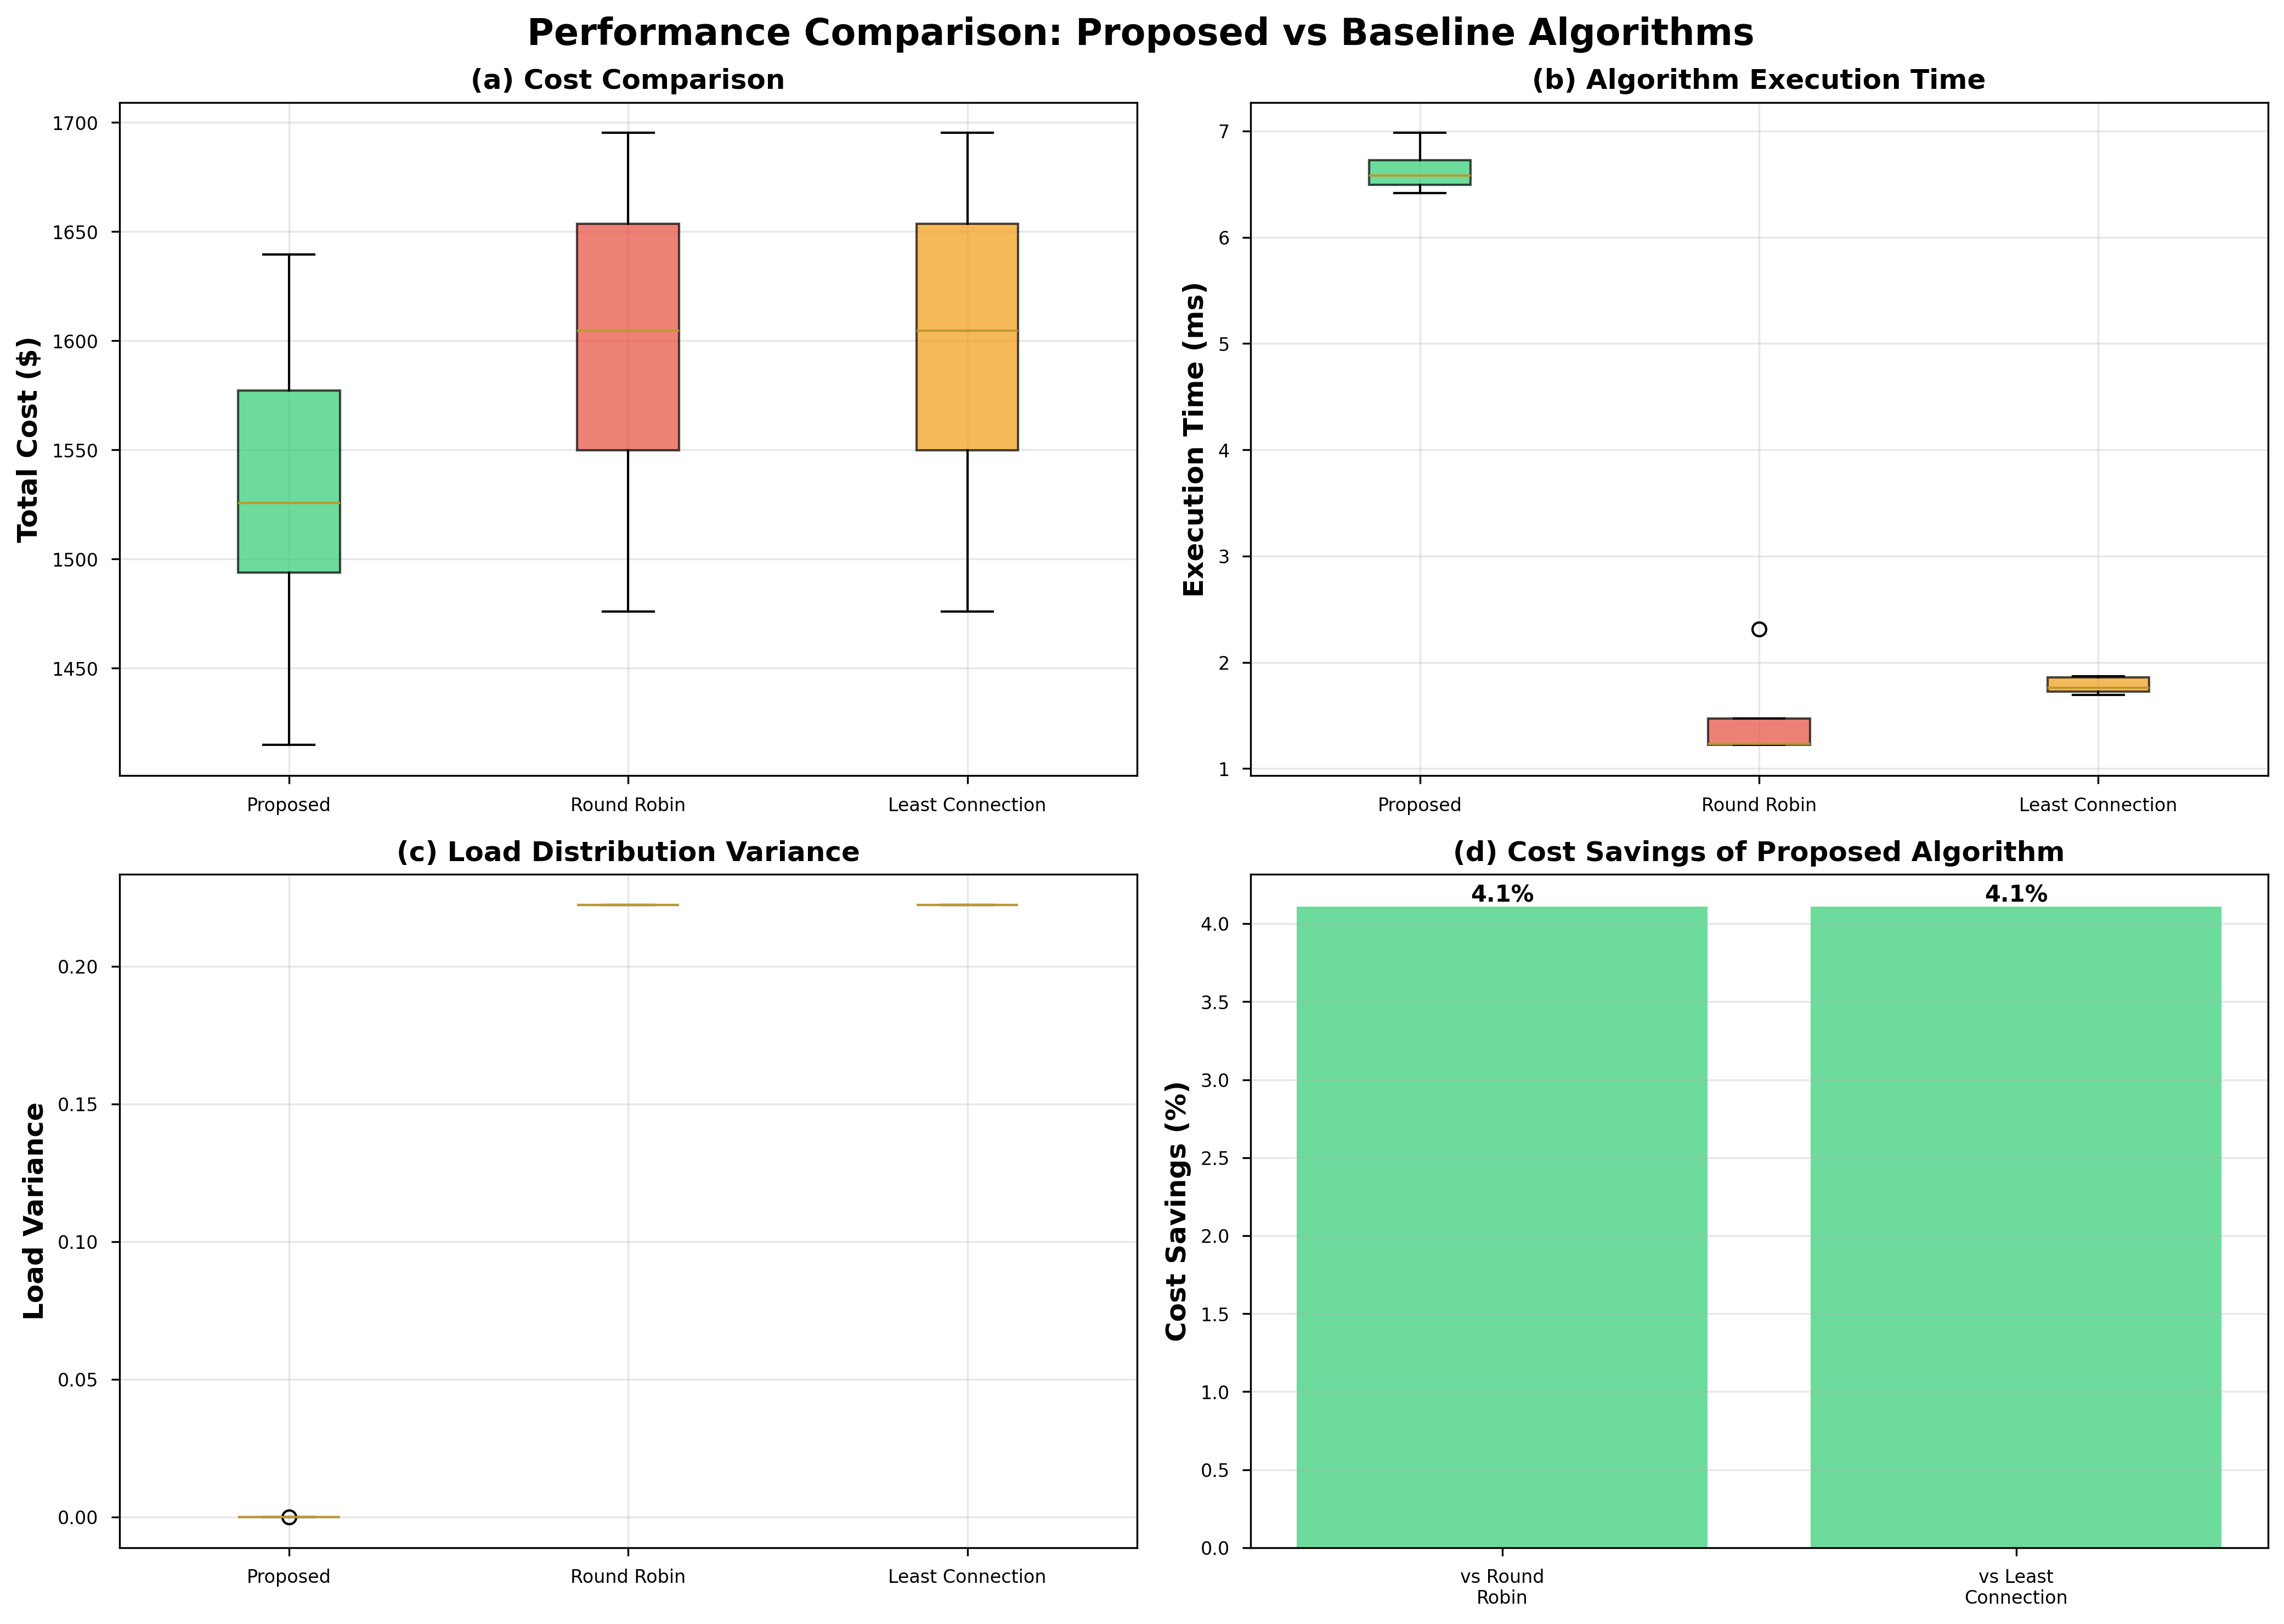
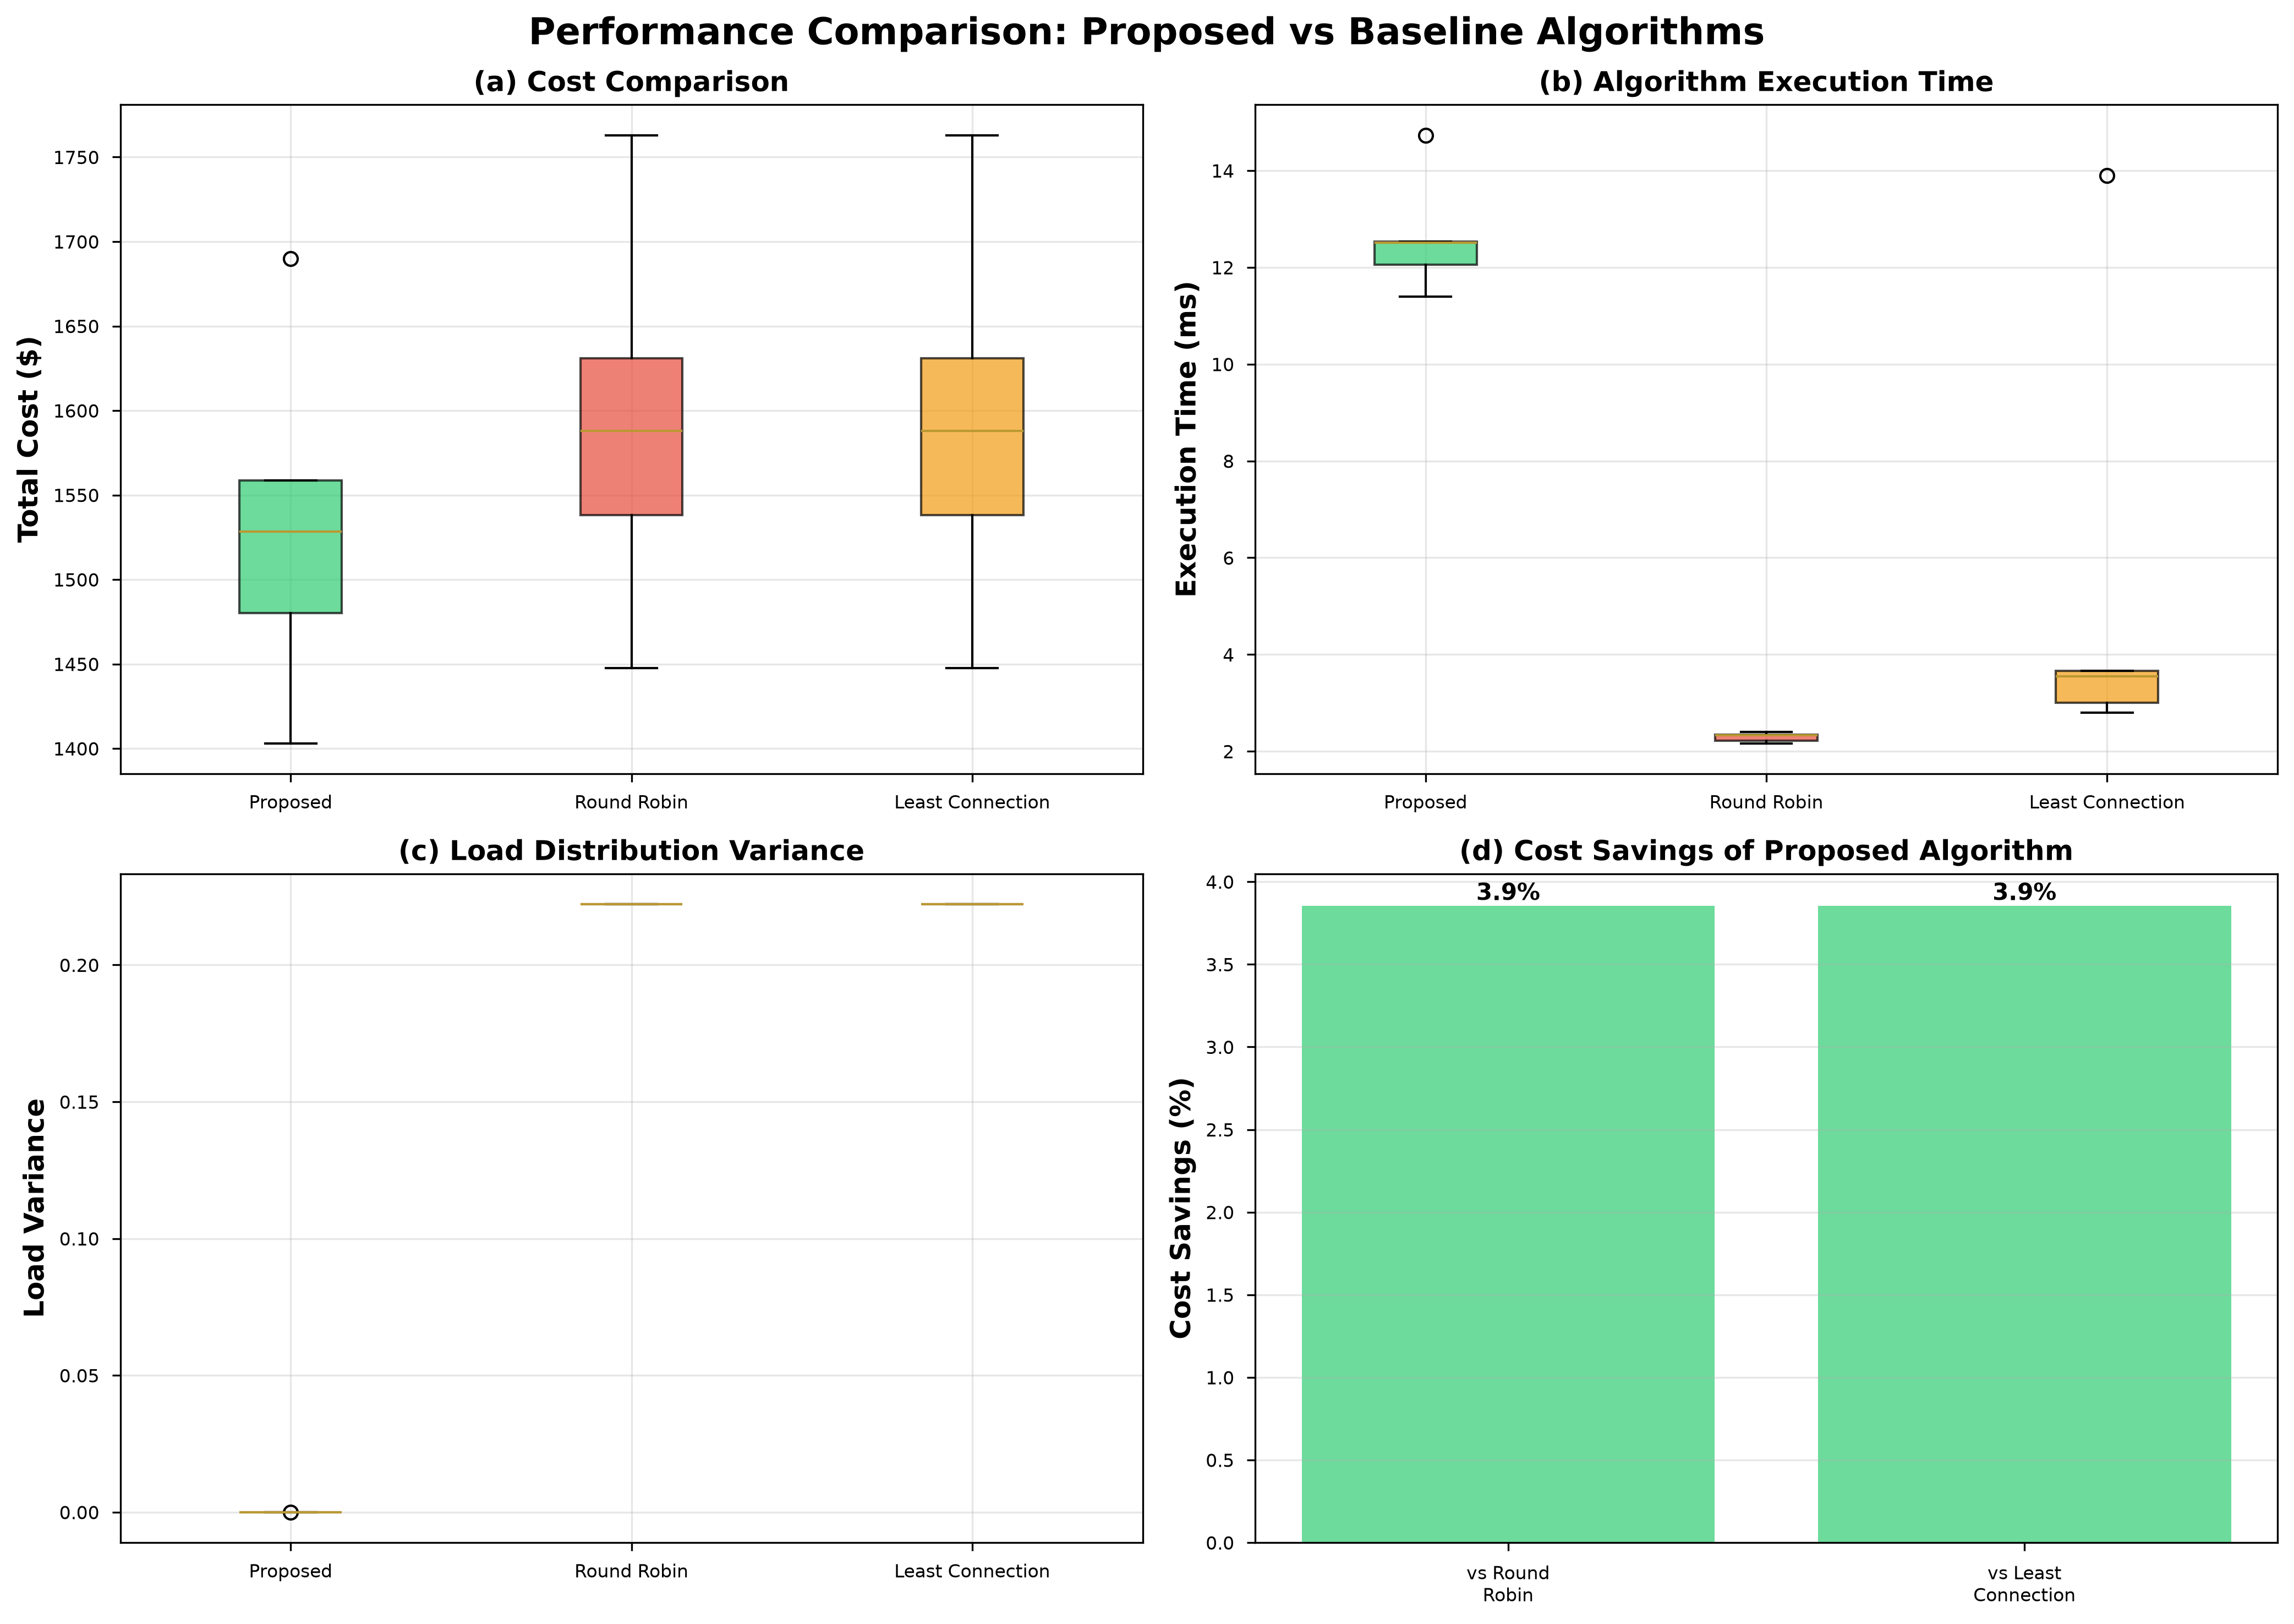
Fix matplotlib compatibility and save paths for Windows

diff --git a/dynamic_load_balancer.py b/dynamic_load_balancer.py
@@ -6,6 +6,7 @@ Author: Research Implementation
 Dataset: Google Cluster Trace (Real Production Data)
 """
 
+import os
 import pandas as pd
 import numpy as np
 import matplotlib.pyplot as plt
@@ -375,7 +376,7 @@ def generate_performance_graphs(results, save_path):
         results['round_robin']['costs'],
         results['least_connection']['costs']
     ]
-    bp1 = ax1.boxplot(costs_data, labels=algorithms, patch_artist=True)
+    bp1 = ax1.boxplot(costs_data, tick_labels=algorithms, patch_artist=True)
     for patch, color in zip(bp1['boxes'], colors):
         patch.set_facecolor(color)
         patch.set_alpha(0.7)
@@ -390,7 +391,7 @@ def generate_performance_graphs(results, save_path):
         np.array(results['round_robin']['times']) * 1000,
         np.array(results['least_connection']['times']) * 1000
     ]
-    bp2 = ax2.boxplot(times_data, labels=algorithms, patch_artist=True)
+    bp2 = ax2.boxplot(times_data, tick_labels=algorithms, patch_artist=True)
     for patch, color in zip(bp2['boxes'], colors):
         patch.set_facecolor(color)
         patch.set_alpha(0.7)
@@ -405,7 +406,7 @@ def generate_performance_graphs(results, save_path):
         results['round_robin']['load_variance'],
         results['least_connection']['load_variance']
     ]
-    bp3 = ax3.boxplot(variance_data, labels=algorithms, patch_artist=True)
+    bp3 = ax3.boxplot(variance_data, tick_labels=algorithms, patch_artist=True)
     for patch, color in zip(bp3['boxes'], colors):
         patch.set_facecolor(color)
         patch.set_alpha(0.7)
@@ -568,7 +569,7 @@ if __name__ == "__main__":
     )
     
     # Generate all graphs and tables
-    save_path = '/home/claude/research_paper/results'
+    save_path = os.path.dirname(os.path.abspath(__file__))
     
     print("\n" + "="*70)
     print("Generating Performance Graphs...")